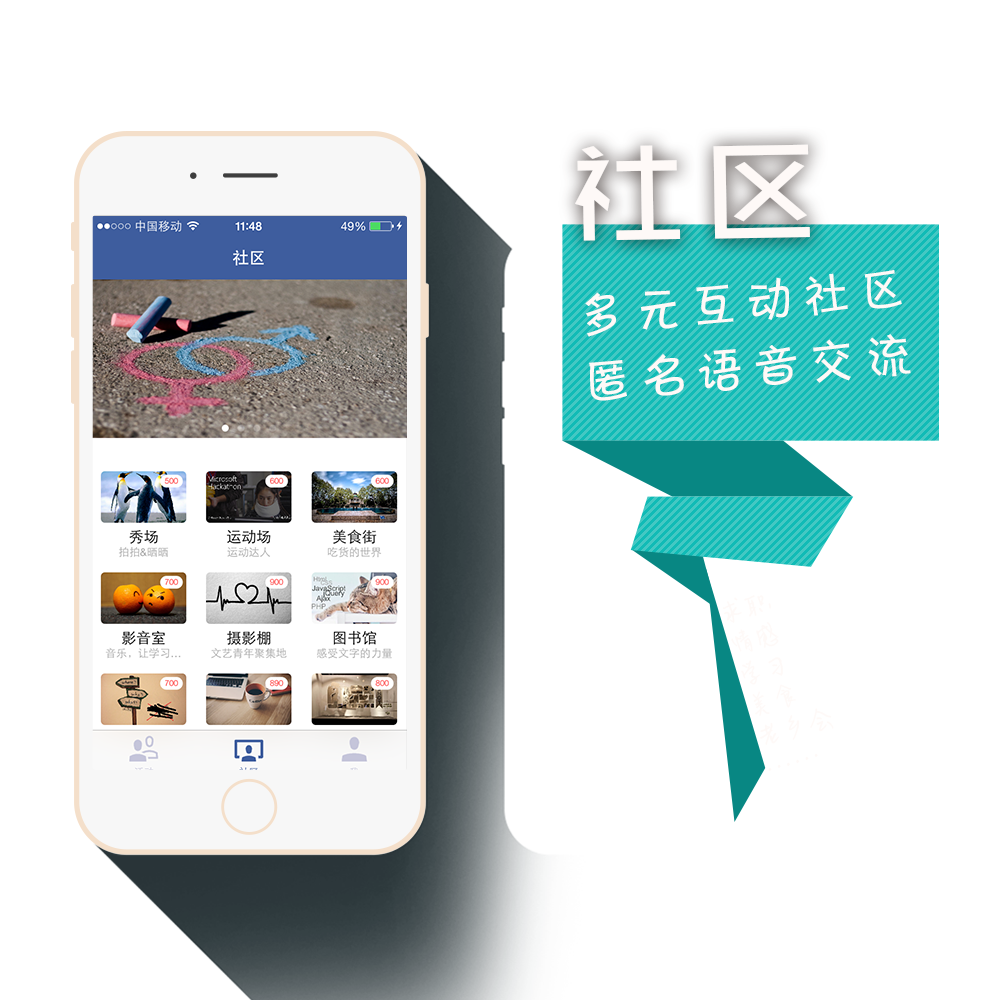
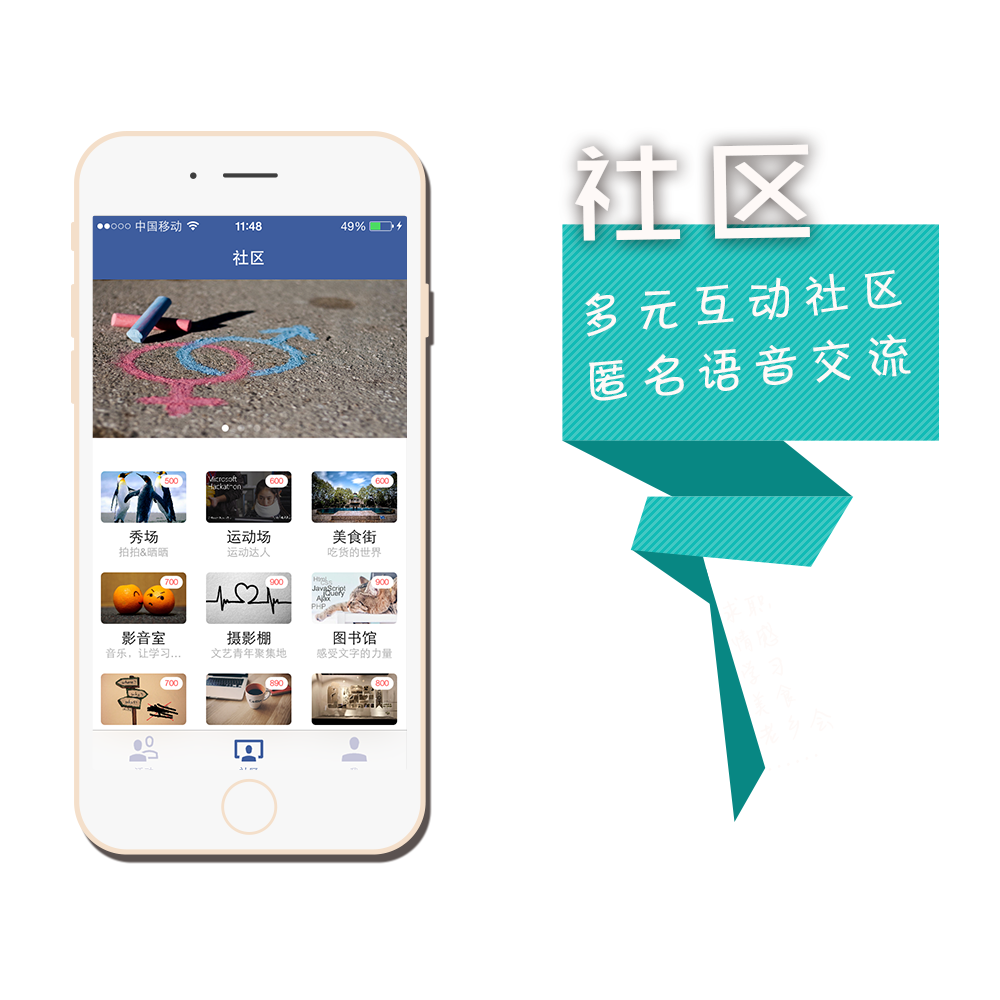
ADD parallax for indexpage and works fine MODIFY img shadows by LuShuo

Changed region(s): [[0.093, 0.155, 0.527, 1.0]]

diff --git a/wein.js b/wein.js
@@ -31,8 +31,16 @@ var fortuneCookies = [
 ];
 
 app.get('/', function(req, res) {
+	res.render('landing_mix',{layout:'main_no_bt'});
+});
+app.get('/1', function(req, res) {
 	res.render('landing',{layout:'main_no_bt'});
 });
+
+ /*parallax demo*/
+// app.get('/2', function(req, res) {
+// 	res.render('landing_parallax',{layout:'main_no_bt'});
+// });
 app.get('/home', function(req, res) {
 	res.render('home');
 });
